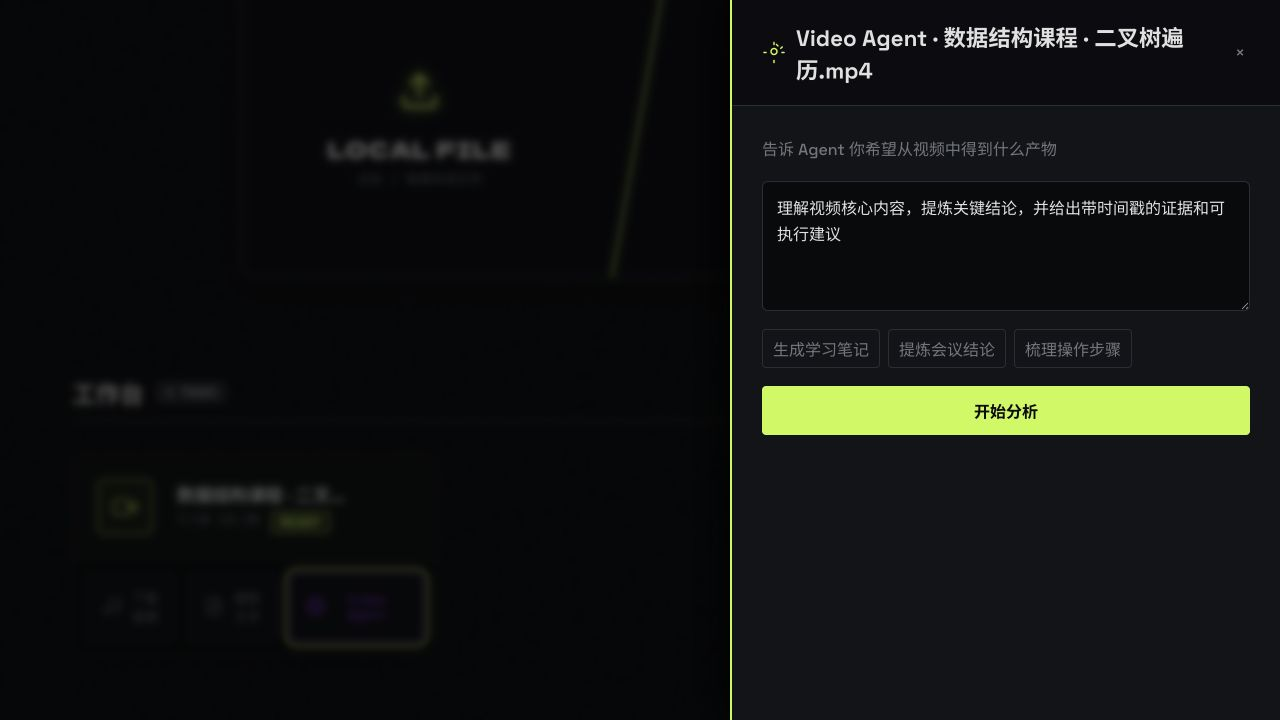
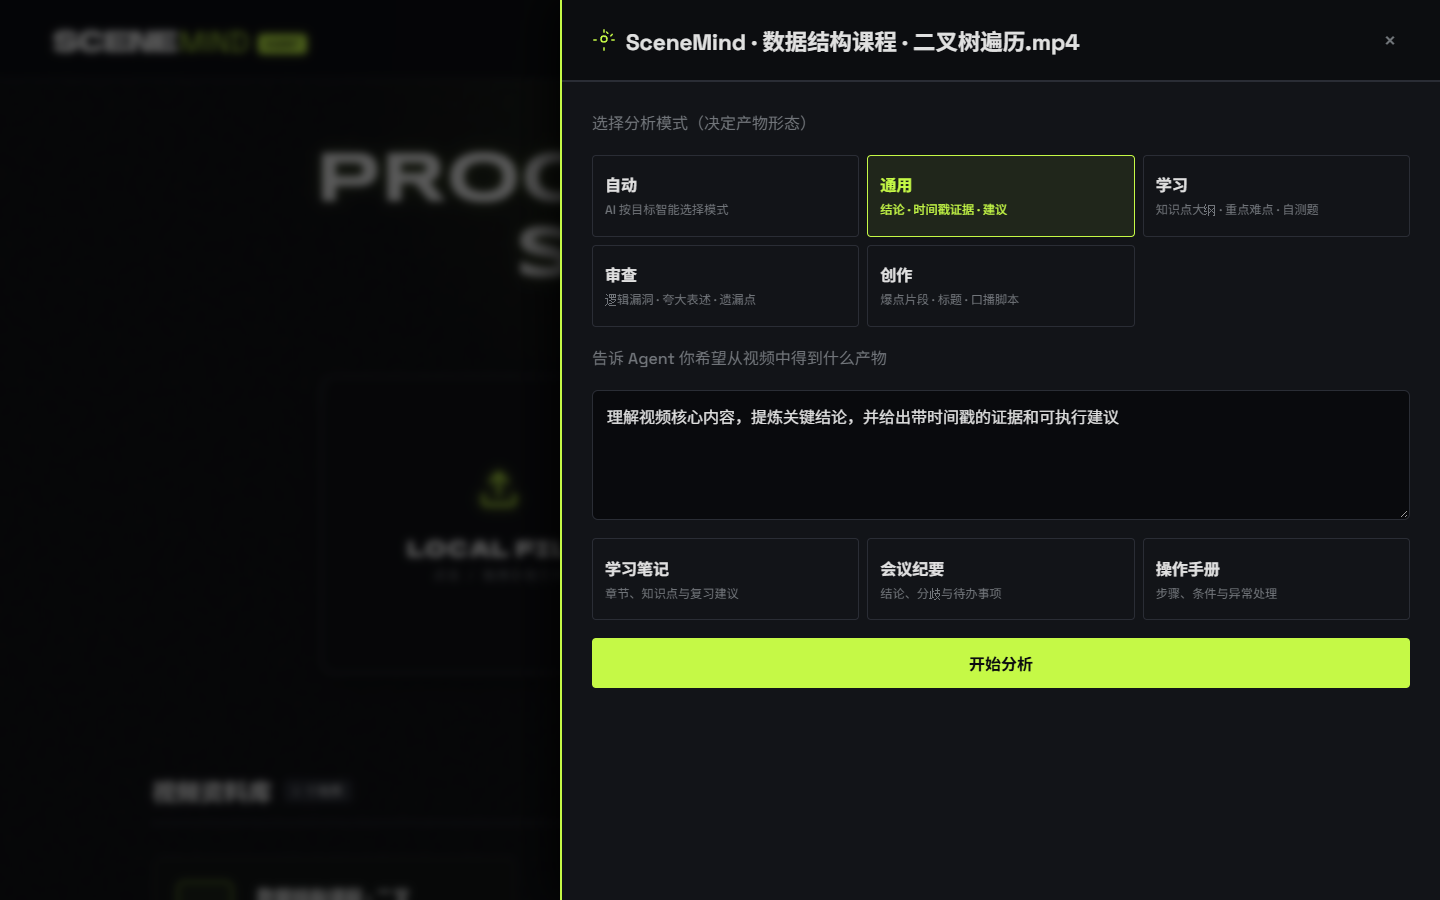
docs(images): 用 SceneMind 品牌重截全部截图，移除旧图
- 四张截图全部从线上 ?demo 重新截取，页头/标题/面板均为 SceneMind 品牌

- 删除未被引用且带旧品牌的 login-register.png、video-agent-demo.png

- README 更新截图说明（1440x900）

diff --git a/README.md b/README.md
@@ -147,7 +147,7 @@ flowchart LR
 
 ![工作台视频列表](docs/images/video-library.png)
 
-> `docs/images/video-library.png` 约 1.9MB（2873×1666），加载较慢属于正常现象。
+> 截图来自内置示例数据（`?demo`），不是真实用户数据；分辨率 1440×900。
 
 提交分析目标：可以直接写需求，也可以用「生成学习笔记 / 提炼会议结论 / 梳理操作步骤」预设。
 
